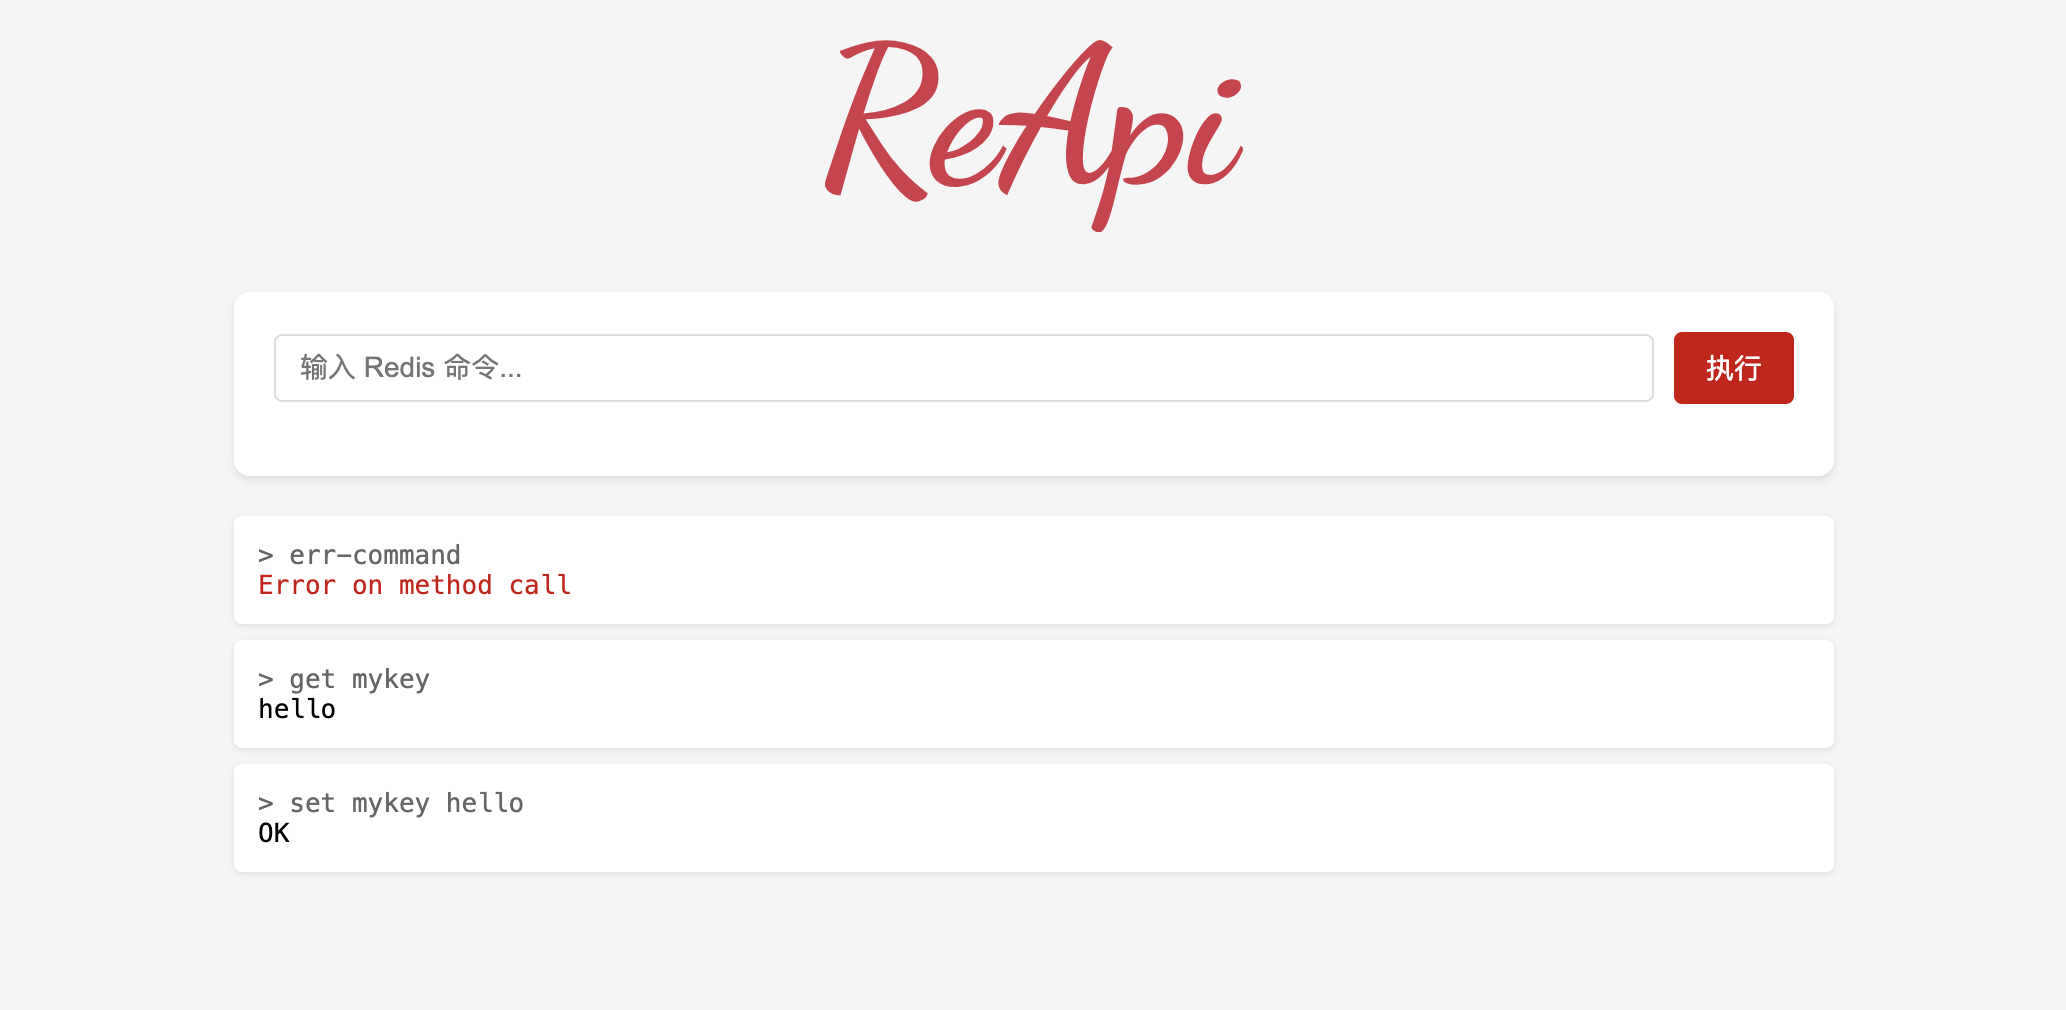
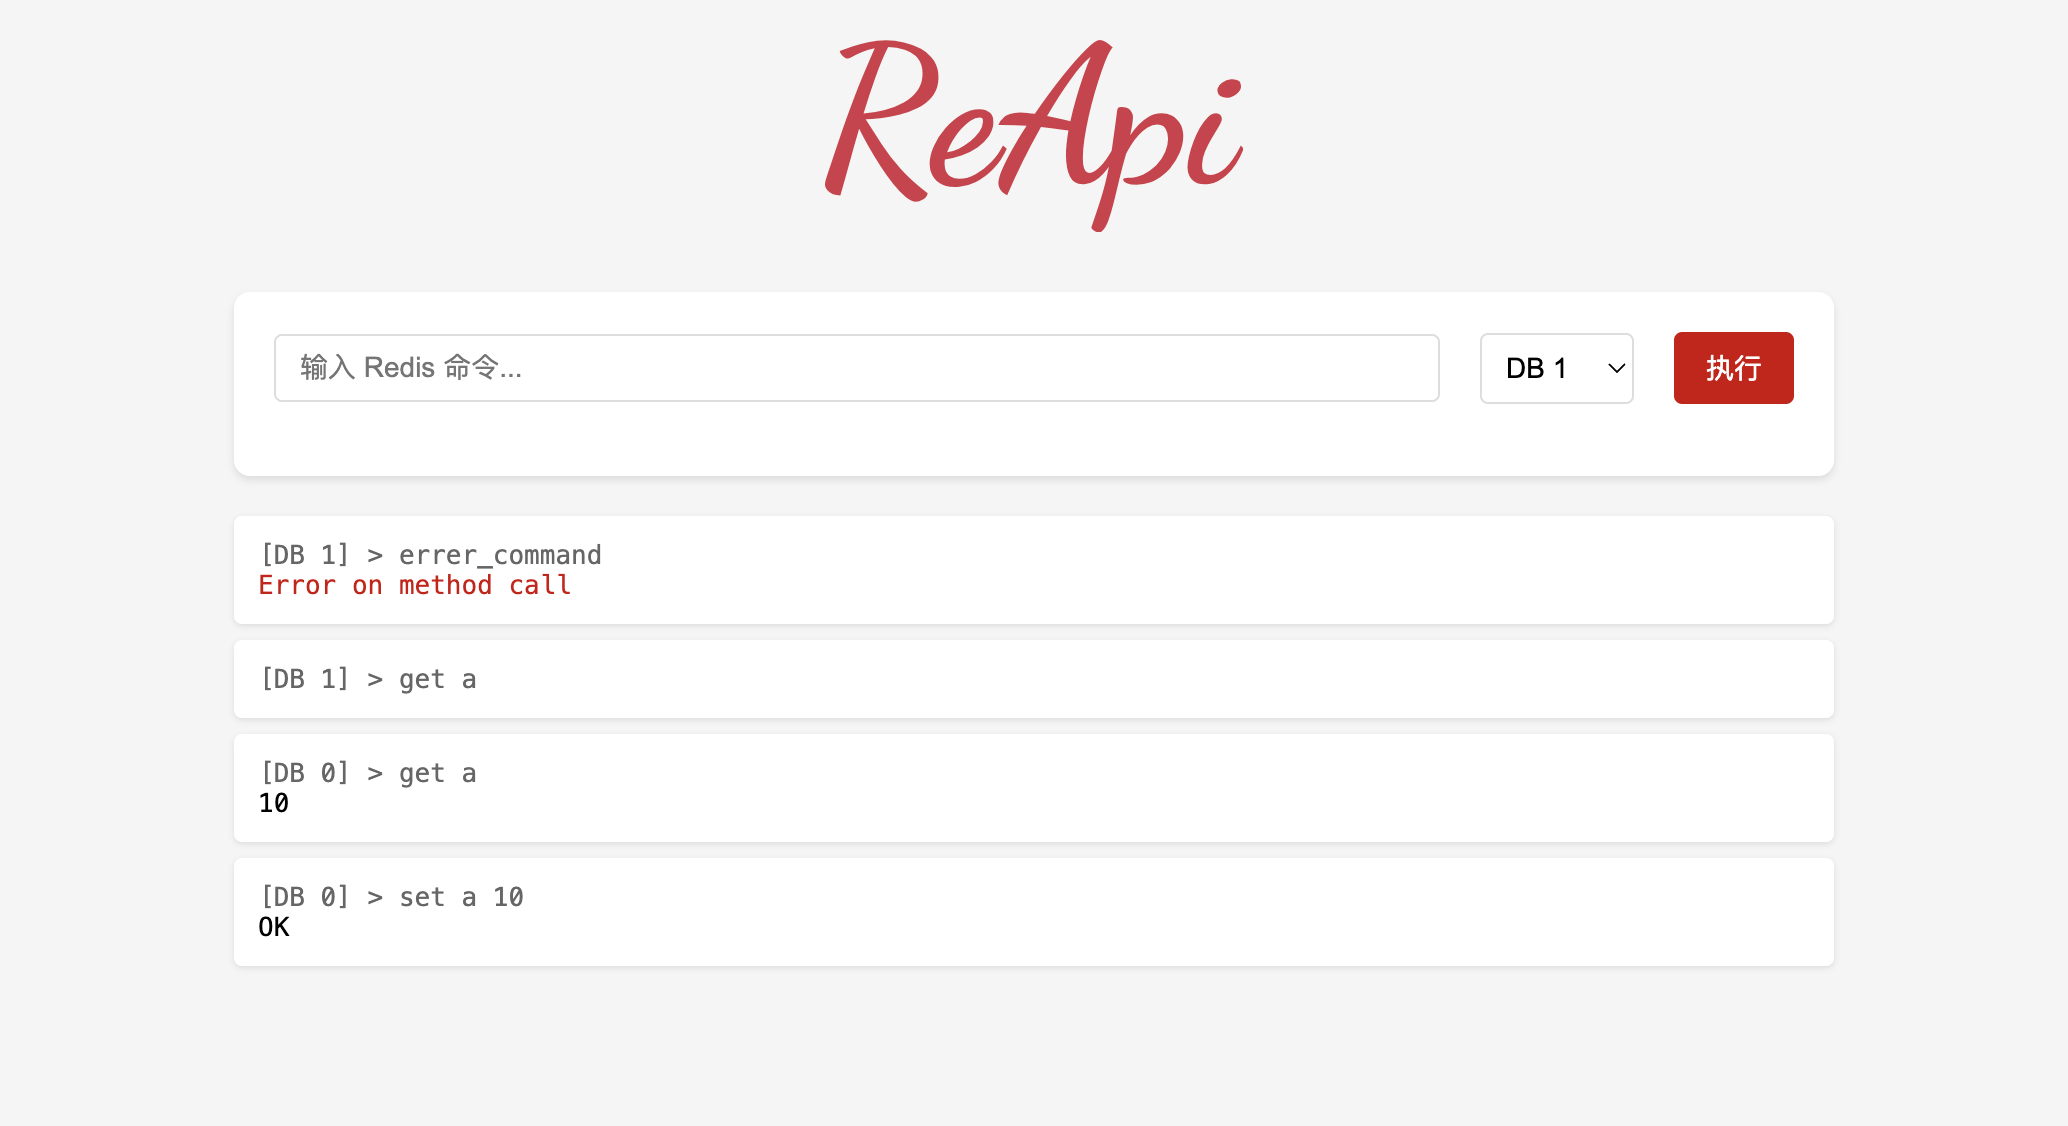
增加DB说明

diff --git a/src/index.html b/src/index.html
@@ -88,7 +88,7 @@
               let result = document.createElement("LI");
               let cmdSpan = document.createElement("span");
               cmdSpan.style.color = "#666";
-              cmdSpan.textContent = "> " + cmd + "\n";
+              cmdSpan.textContent = `[DB ${dbIndex}] > ${cmd}\n`;
               let responseSpan = document.createElement("span");
               responseSpan.style.color = data.error ? "#c0271c" : "#000";
               responseSpan.textContent = data.result || data.error;
